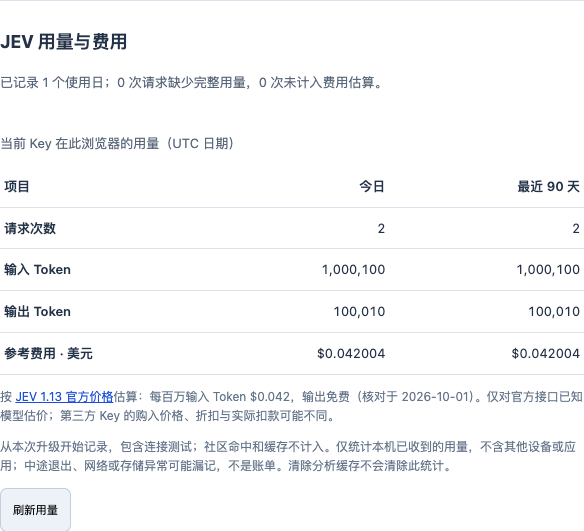
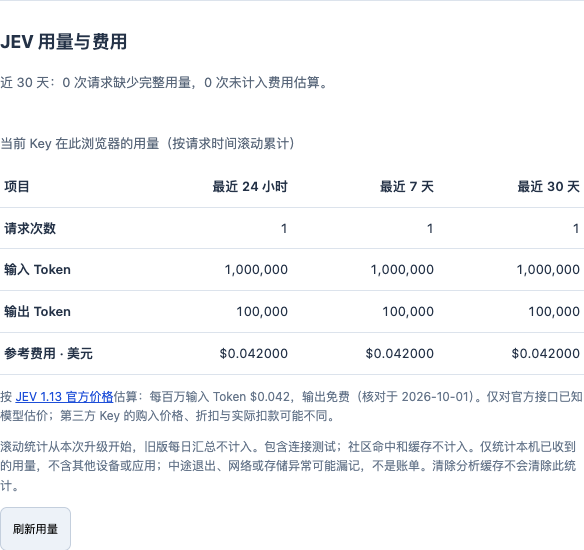
Show rolling 24-hour, 7-day and 30-day JEV usage

diff --git a/tests/usage.test.js b/tests/usage.test.js
@@ -5,24 +5,31 @@ function setup(){let time=Date.UTC(2026,9,1);const data={};const storage={get:as
 const response=()=>({model:'jev-1.13.0',usage:{input_tokens:1e6,output_tokens:500}});
 test('并发请求逐次计数，官方模型按输入估算，不记录明文 Key',async()=>{
  const h=setup();await Promise.all(Array.from({length:20},()=>h.tracker.request(p,async()=>response())));
- const u=await h.tracker.summary(p);assert.equal(u.recent.requests,20);assert.equal(u.recent.input,20e6);assert.equal(u.recent.output,10000);assert.ok(Math.abs(u.recent.cost-.84)<1e-9);assert.equal(u.recent.unpriced,0);assert.ok(!JSON.stringify(h.data).includes(p.key));
+ const u=await h.tracker.summary(p);assert.equal(u.month.requests,20);assert.equal(u.month.input,20e6);assert.equal(u.month.output,10000);assert.ok(Math.abs(u.month.cost-.84)<1e-9);assert.equal(u.month.unpriced,0);assert.ok(!JSON.stringify(h.data).includes(p.key));
 });
 test('HTTP失败、缺失和畸形用量仍计请求，费用不能凭空补全',async()=>{
  const h=setup();await assert.rejects(h.tracker.request(p,async()=>{throw Error('HTTP 500');}),/500/);
  await h.tracker.request(p,async()=>({usage:{input_tokens:-1,output_tokens:'99'}}));
  await h.tracker.request(p,async()=>({model:'jev-1.13.0',usage:{input_tokens:100}}));
- const u=(await h.tracker.summary(p)).recent;assert.equal(u.requests,3);assert.equal(u.unknown,3);assert.equal(u.input,100);assert.equal(u.output,0);assert.equal(u.unpriced,2);assert.ok(Math.abs(u.cost-.0000042)<1e-12);
+ const u=(await h.tracker.summary(p)).month;assert.equal(u.requests,3);assert.equal(u.unknown,3);assert.equal(u.input,100);assert.equal(u.output,0);assert.equal(u.unpriced,2);assert.ok(Math.abs(u.cost-.0000042)<1e-12);
 });
 test('不同 Key、接口隔离；自定义服务和未知模型不套用官方价格',async()=>{
  const h=setup();for(const provider of [p,{...p,key:'second'},{...p,url:'https://custom.example/v1/systemone'}])await h.tracker.request(provider,async()=>response());
- assert.equal((await h.tracker.summary(p)).recent.requests,1);assert.equal((await h.tracker.summary({...p,url:'https://custom.example/v1/systemone'})).recent.unpriced,1);
- await h.tracker.request(p,async()=>({...response(),model:'jev-future'}));assert.equal((await h.tracker.summary(p)).recent.unpriced,1);
+ assert.equal((await h.tracker.summary(p)).month.requests,1);assert.equal((await h.tracker.summary({...p,url:'https://custom.example/v1/systemone'})).month.unpriced,1);
+ await h.tracker.request(p,async()=>({...response(),model:'jev-future'}));assert.equal((await h.tracker.summary(p)).month.unpriced,1);
 });
-test('UTC跨日与90天窗口；worker重启后统计保留',async()=>{
- const h=setup();await h.tracker.request(p,async()=>response());h.advance(1);await h.tracker.request(p,async()=>response());
- let u=await h.tracker.summary(p);assert.equal(u.days,2);assert.equal(u.today.requests,1);assert.equal(u.recent.requests,2);
- h.advance(89);u=await h.tracker.summary(p);assert.equal(u.recent.requests,1);assert.equal(u.today.requests,0);
- const restarted=createUsageTracker({storage:h.storage,now:()=>Date.UTC(2026,11,30)});assert.equal((await restarted.summary(p)).recent.requests,1);
+test('24小时、7天、30天滚动窗口精确边界；跨午夜不清零且重启保留',async()=>{
+ const h=setup();await h.tracker.request(p,async()=>response());h.advance(.5);await h.tracker.request(p,async()=>response());
+ h.advance(.5);let u=await h.tracker.summary(p);assert.equal(u.day.requests,1);assert.equal(u.week.requests,2); // exactly 24h excluded
+ h.advance(6);u=await h.tracker.summary(p);assert.equal(u.day.requests,0);assert.equal(u.week.requests,1);
+ h.advance(23);u=await h.tracker.summary(p);assert.equal(u.month.requests,1);assert.equal(u.month.input,1e6);
+ const restarted=createUsageTracker({storage:h.storage,now:()=>Date.UTC(2026,9,31)});assert.deepEqual(await restarted.summary(p),u);
+ h.advance(.5);assert.equal((await h.tracker.summary(p)).month.requests,0);
+ const midnight=setup();midnight.advance(.99);await midnight.tracker.request(p,async()=>response());midnight.advance(.02);assert.equal((await midnight.tracker.summary(p)).day.requests,1);
+});
+test('旧版每日汇总不混入精确滚动窗口',async()=>{
+ const h=setup();await h.tracker.request(p,async()=>response());const key=Object.keys(h.data)[0];h.data[key.replace('v2:','')]=[{day:20727,requests:99,input:99e6}];
+ assert.equal((await h.tracker.summary(p)).month.requests,1);
 });
 test('统计写入失败不阻止广告识别结果返回',async()=>{
  const tracker=createUsageTracker({storage:{get:async()=>({}),set:async()=>{throw Error('quota');}}});assert.deepEqual(await tracker.request(p,async()=>response()),response());

diff --git a/extension/options.html b/extension/options.html
@@ -27,14 +27,14 @@
 </form>
 <section aria-labelledby="usageHeading"><h2 id="usageHeading">JEV 用量与费用</h2>
 <p id="usage" role="status">正在读取本机用量…</p>
-<table id="usageTable" hidden><caption>当前 Key 在此浏览器的用量（UTC 日期）</caption><thead><tr><th scope="col">项目</th><th scope="col">今日</th><th scope="col">最近 90 天</th></tr></thead><tbody>
-<tr><th scope="row">请求次数</th><td id="todayRequests"></td><td id="recentRequests"></td></tr>
-<tr><th scope="row">输入 Token</th><td id="todayInput"></td><td id="recentInput"></td></tr>
-<tr><th scope="row">输出 Token</th><td id="todayOutput"></td><td id="recentOutput"></td></tr>
-<tr><th scope="row">参考费用 · 美元</th><td id="todayCost"></td><td id="recentCost"></td></tr>
+<table id="usageTable" hidden><caption>当前 Key 在此浏览器的用量（按请求时间滚动累计）</caption><thead><tr><th scope="col">项目</th><th scope="col">最近 24 小时</th><th scope="col">最近 7 天</th><th scope="col">最近 30 天</th></tr></thead><tbody>
+<tr><th scope="row">请求次数</th><td id="dayRequests"></td><td id="weekRequests"></td><td id="monthRequests"></td></tr>
+<tr><th scope="row">输入 Token</th><td id="dayInput"></td><td id="weekInput"></td><td id="monthInput"></td></tr>
+<tr><th scope="row">输出 Token</th><td id="dayOutput"></td><td id="weekOutput"></td><td id="monthOutput"></td></tr>
+<tr><th scope="row">参考费用 · 美元</th><td id="dayCost"></td><td id="weekCost"></td><td id="monthCost"></td></tr>
 </tbody></table>
 <p class="hint">按 <a href="https://docs.typesafe.ai/models" target="_blank" rel="noopener noreferrer">JEV 1.13 官方价格</a>估算：每百万输入 Token $0.042，输出免费（核对于 2026-10-01）。仅对官方接口已知模型估价；第三方 Key 的购入价格、折扣与实际扣款可能不同。</p>
-<p class="hint">从本次升级开始记录，包含连接测试；社区命中和缓存不计入。仅统计本机已收到的用量，不含其他设备或应用；中途退出、网络或存储异常可能漏记，不是账单。清除分析缓存不会清除此统计。</p>
+<p class="hint">滚动统计从本次升级开始，旧版每日汇总不计入。包含连接测试；社区命中和缓存不计入。仅统计本机已收到的用量，不含其他设备或应用；中途退出、网络或存储异常可能漏记，不是账单。清除分析缓存不会清除此统计。</p>
 <button type="button" id="refreshUsage">刷新用量</button>
 </section>
 <footer>Key 仅存本机，不同步。标题、字幕及少量赞助上下文会发送给JEV 服务。JEV 分块发送完整字幕。不会发送 B 站 Cookie、账号信息或音视频。社区广告不需要字幕；AI 识别需要字幕；首次读取不到时，会尝试开启中文 AI 字幕后恢复原状态。社区查询使用视频标识，投稿的广告数据会公开。<br>版本 <span id="version"></span> · 发布包不包含 Key</footer>

diff --git a/extension/usage.js b/extension/usage.js
@@ -5,17 +5,15 @@ export function createUsageTracker({storage,now=Date.now}) {
   const serial=task=>{const next=queue.then(task,task);queue=next.catch(()=>{});return next;};
   async function identity(provider){
     const hash=await crypto.subtle.digest('SHA-256',new TextEncoder().encode(JSON.stringify([provider.url,provider.key])));
-    return 'jevUsage:'+Array.from(new Uint8Array(hash),x=>x.toString(16).padStart(2,'0')).join('');
+    return 'jevUsage:v2:'+Array.from(new Uint8Array(hash),x=>x.toString(16).padStart(2,'0')).join('');
   }
-  function retained(rows){return (Array.isArray(rows)?rows:[]).filter(r=>Number.isInteger(r.day)&&r.day<=Math.floor(now()/DAY)&&r.day>Math.floor(now()/DAY)-90);}
-  async function record(provider,day,reply){
+  function retained(rows){return (Array.isArray(rows)?rows:[]).filter(r=>Number.isFinite(r.time)&&r.time<=now()&&r.time>now()-30*DAY);}
+  async function record(provider,time,reply){
     const key=await identity(provider);
     return serial(async()=>{
       const usage=reply?.usage;
       const rows=retained((await storage.get(key))[key]);
-      let row=rows.find(r=>r.day===day);
-      if(!row){row={day,requests:0,input:0,output:0,unknown:0,cost:0,unpriced:0};rows.push(row);}
-      row.requests++;
+      const row={time,requests:1,input:0,output:0,unknown:0,cost:0,unpriced:0};rows.push(row);
       const valid=n=>Number.isSafeInteger(n)&&n>=0;
       if(valid(usage?.input_tokens))row.input+=usage.input_tokens;
       if(valid(usage?.output_tokens))row.output+=usage.output_tokens;
@@ -28,10 +26,10 @@ export function createUsageTracker({storage,now=Date.now}) {
   }
   return {
     async request(provider,ask){
-      const day=Math.floor(now()/DAY);let reply;
+      const time=now();let reply;
       try{reply=await ask();return reply;}finally{
         // Accounting failure must not invalidate an otherwise usable ad decision.
-        await record(provider,day,reply).catch(()=>{});
+        await record(provider,time,reply).catch(()=>{});
       }
     },
     async summary(provider){
@@ -39,7 +37,8 @@ export function createUsageTracker({storage,now=Date.now}) {
       return serial(async()=>{
         const rows=retained((await storage.get(key))[key]);
         const sum=list=>list.reduce((total,r)=>Object.fromEntries(Object.keys(total).map(k=>[k,total[k]+(r[k]||0)])),{requests:0,input:0,output:0,unknown:0,cost:0,unpriced:0});
-        return {recent:sum(rows),today:sum(rows.filter(r=>r.day===Math.floor(now()/DAY))),days:rows.length};
+        const end=now();
+        return {day:sum(rows.filter(r=>r.time>end-DAY)),week:sum(rows.filter(r=>r.time>end-7*DAY)),month:sum(rows)};
       });
     }
   };

diff --git a/extension/options.js b/extension/options.js
@@ -41,8 +41,8 @@ async function refreshUsage(){
     const r=await chrome.runtime.sendMessage({type:'usage'});if(!r.ok)throw Error(r.error);
     const u=r.result;
     $('usageTable').hidden=!saved.jevApiKey;
-    $('usage').textContent=!saved.jevApiKey?'保存 JEV Key 后开始记录本机用量。':u.recent.requests?`已记录 ${u.days} 个使用日；${u.recent.unknown} 次请求缺少完整用量，${u.recent.unpriced} 次未计入费用估算。`:'尚无请求记录；识别视频或测试连接后会显示用量。';
-    for(const period of ['today','recent']){
+    $('usage').textContent=!saved.jevApiKey?'保存 JEV Key 后开始记录本机用量。':u.month.requests?`近 30 天：${u.month.unknown} 次请求缺少完整用量，${u.month.unpriced} 次未计入费用估算。`:'尚无请求记录；识别视频或测试连接后会显示用量。';
+    for(const period of ['day','week','month']){
       const data=u[period];
       for(const metric of ['Requests','Input','Output'])$(period+metric).textContent=data[metric.toLowerCase()].toLocaleString();
       $(period+'Cost').textContent=data.unpriced===data.requests&&data.requests>0?'暂无估价':`${data.unpriced?'已知部分 ':''}$${data.cost.toFixed(6)}`;

diff --git a/tests/background.test.js b/tests/background.test.js
@@ -256,7 +256,7 @@ test('旧 LLM 选择升级后只请求 JEV，无 JEV Key 时只用社区',async(
 test('用量只记录真实 JEV 请求；命中社区及缓存不累加',async()=>{
  const h=harness();await h.analyze();const entries=()=>Object.entries(h.data).filter(([k])=>k.startsWith('jevUsage:'));
  assert.equal(entries().length,1);const first=JSON.stringify(entries());await h.analyze();assert.equal(JSON.stringify(entries()),first);
- assert.equal(entries()[0][1][0].requests,aiRequests(h).length);assert.ok(!first.includes('fixture-credential'));
+ assert.equal(entries()[0][1].reduce((sum,r)=>sum+r.requests,0),aiRequests(h).length);assert.ok(!first.includes('fixture-credential'));
  const community=harness({community:communityFound});await community.analyze();assert.equal(Object.keys(community.data).filter(k=>k.startsWith('jevUsage:')).length,0);
 });
 test('视频页面不能读取统计或发起连接测试',async()=>{

diff --git a/README.md b/README.md
@@ -75,11 +75,11 @@ API Key 可以理解为接口的使用凭证，需要你从相应服务商获取
 
 实际设置页截图，使用测试样本数据演示统计，不代表真实账单。
 
-设置页的“JEV 用量与费用”显示当前 Key 在此浏览器中**今日、最近 90 天**的请求次数、输入/输出 Token 和参考费用，点击“刷新用量”更新。
+设置页的“JEV 用量与费用”显示当前 Key 在此浏览器中**最近 24 小时、最近 7 天、最近 30 天**的请求次数、输入/输出 Token 和参考费用，点击“刷新用量”更新。
 
 按 [官方模型价格](https://docs.typesafe.ai/models)（2026-10-01 核对），JEV 1.13 每百万输入 Token 为 **0.042 美元，输出免费**。例如 100 万输入、10 万输出 Token，参考费用为 0.042 美元。仅对官方接口返回的已知模型估算；自定义接口或未知模型显示未估价。第三方 Key 的实际购入成本、折扣和扣款以服务商为准。
 
-统计从本次升级开始，包含连接测试，不计社区命中和缓存。按 UTC 日期统计，Key 或接口不同分别记录；不含其他设备、应用或本次升级前的用量。失败、缺失用量、未估价的请求会标明；中途关闭或存储异常可能漏记，不能作为账单。清除分析缓存不会清除用量记录。目前没有接入余额查询或剩余天数预测。
+滚动统计从本次升级开始，旧版每日汇总不混入。包含连接测试，不计社区命中和缓存。按请求发出时间滚动统计，Key 或接口不同分别记录；不含其他设备、应用或本次升级前的用量。失败、缺失用量、未估价的请求会标明；中途关闭或存储异常可能漏记，不能作为账单。清除分析缓存不会清除用量记录。目前没有接入余额查询或剩余天数预测。
 
 升级会保留已有 JEV 地址、模型、Key 和开关。旧版 LLM 选择不再生效，也不会把 LLM Key 当作 JEV Key；未填 JEV Key 时只使用社区标注。下次保存设置会清除旧 LLM 配置字段。
 

diff --git a/docs/releases/v0.6.1.md b/docs/releases/v0.6.1.md
@@ -1,0 +1,17 @@
+# B站广告跳过 v0.6.1
+
+设置页的用量统计改为 **最近 24 小时、最近 7 天、最近 30 天**，方便查看短期与月度消耗。三个周期都展示请求数、输入/输出 Token 和参考费用，替代原来的“今日、最近 90 天”。
+
+## 统计口径
+
+- 从当前时刻向前滚动计算 24 小时、7×24 小时、30×24 小时，跨午夜不会清零。
+- 未获得完整用量和未估价请求的说明对应近 30 天；旧版只有每日汇总，无法精确换算，因此滚动统计从升级后开始，旧汇总不混入。
+- 费用仍为已知官方 JEV 模型的参考估算，不是实际账单。JEV 配置、社区优先和自动跳过行为保持不变。
+
+## 升级
+
+下载本页 ZIP，解压覆盖原扩展目录，在 `chrome://extensions` 点击“重新加载”，再刷新设置页和已打开的 B站视频页。无需卸载，已有设置与本机用量记录保留。
+
+## 验证
+
+`npm run check`、106 项测试及版本标签打包通过。回归覆盖 跨午夜、24 小时/7 天/30 天精确边界、旧汇总隔离与重启恢复及费用累计；真实 Chrome 检查三个统计周期以及桌面、窄屏和中间尺寸显示。

diff --git a/docs/PRIVACY.md b/docs/PRIVACY.md
@@ -16,4 +16,4 @@
 
 正式商店发布时，发布者需要将本说明放在公开可访问的 URL，并补充发布者名称、隐私联系渠道和生效日期。
 
-- 用量统计仅存本机：接口与 Key 的 SHA-256 指纹、UTC 日期、请求次数、输入/输出 Token、未知用量次数及参考费用。不记录字幕或视频标识，不发送统计到第三方；显示最近 90 天。统计不含其他设备或应用，并非账单。清除分析缓存不会删除这些统计；删除扩展数据或卸载会丢失统计。
+- 用量统计仅存本机：接口与 Key 的 SHA-256 指纹、请求时间、请求次数、输入/输出 Token、未知用量次数及参考费用。不记录字幕或视频标识，不发送统计到第三方；显示最近 24 小时、最近 7 天、最近 30 天。统计不含其他设备或应用，并非账单。清除分析缓存不会删除这些统计；删除扩展数据或卸载会丢失统计。
